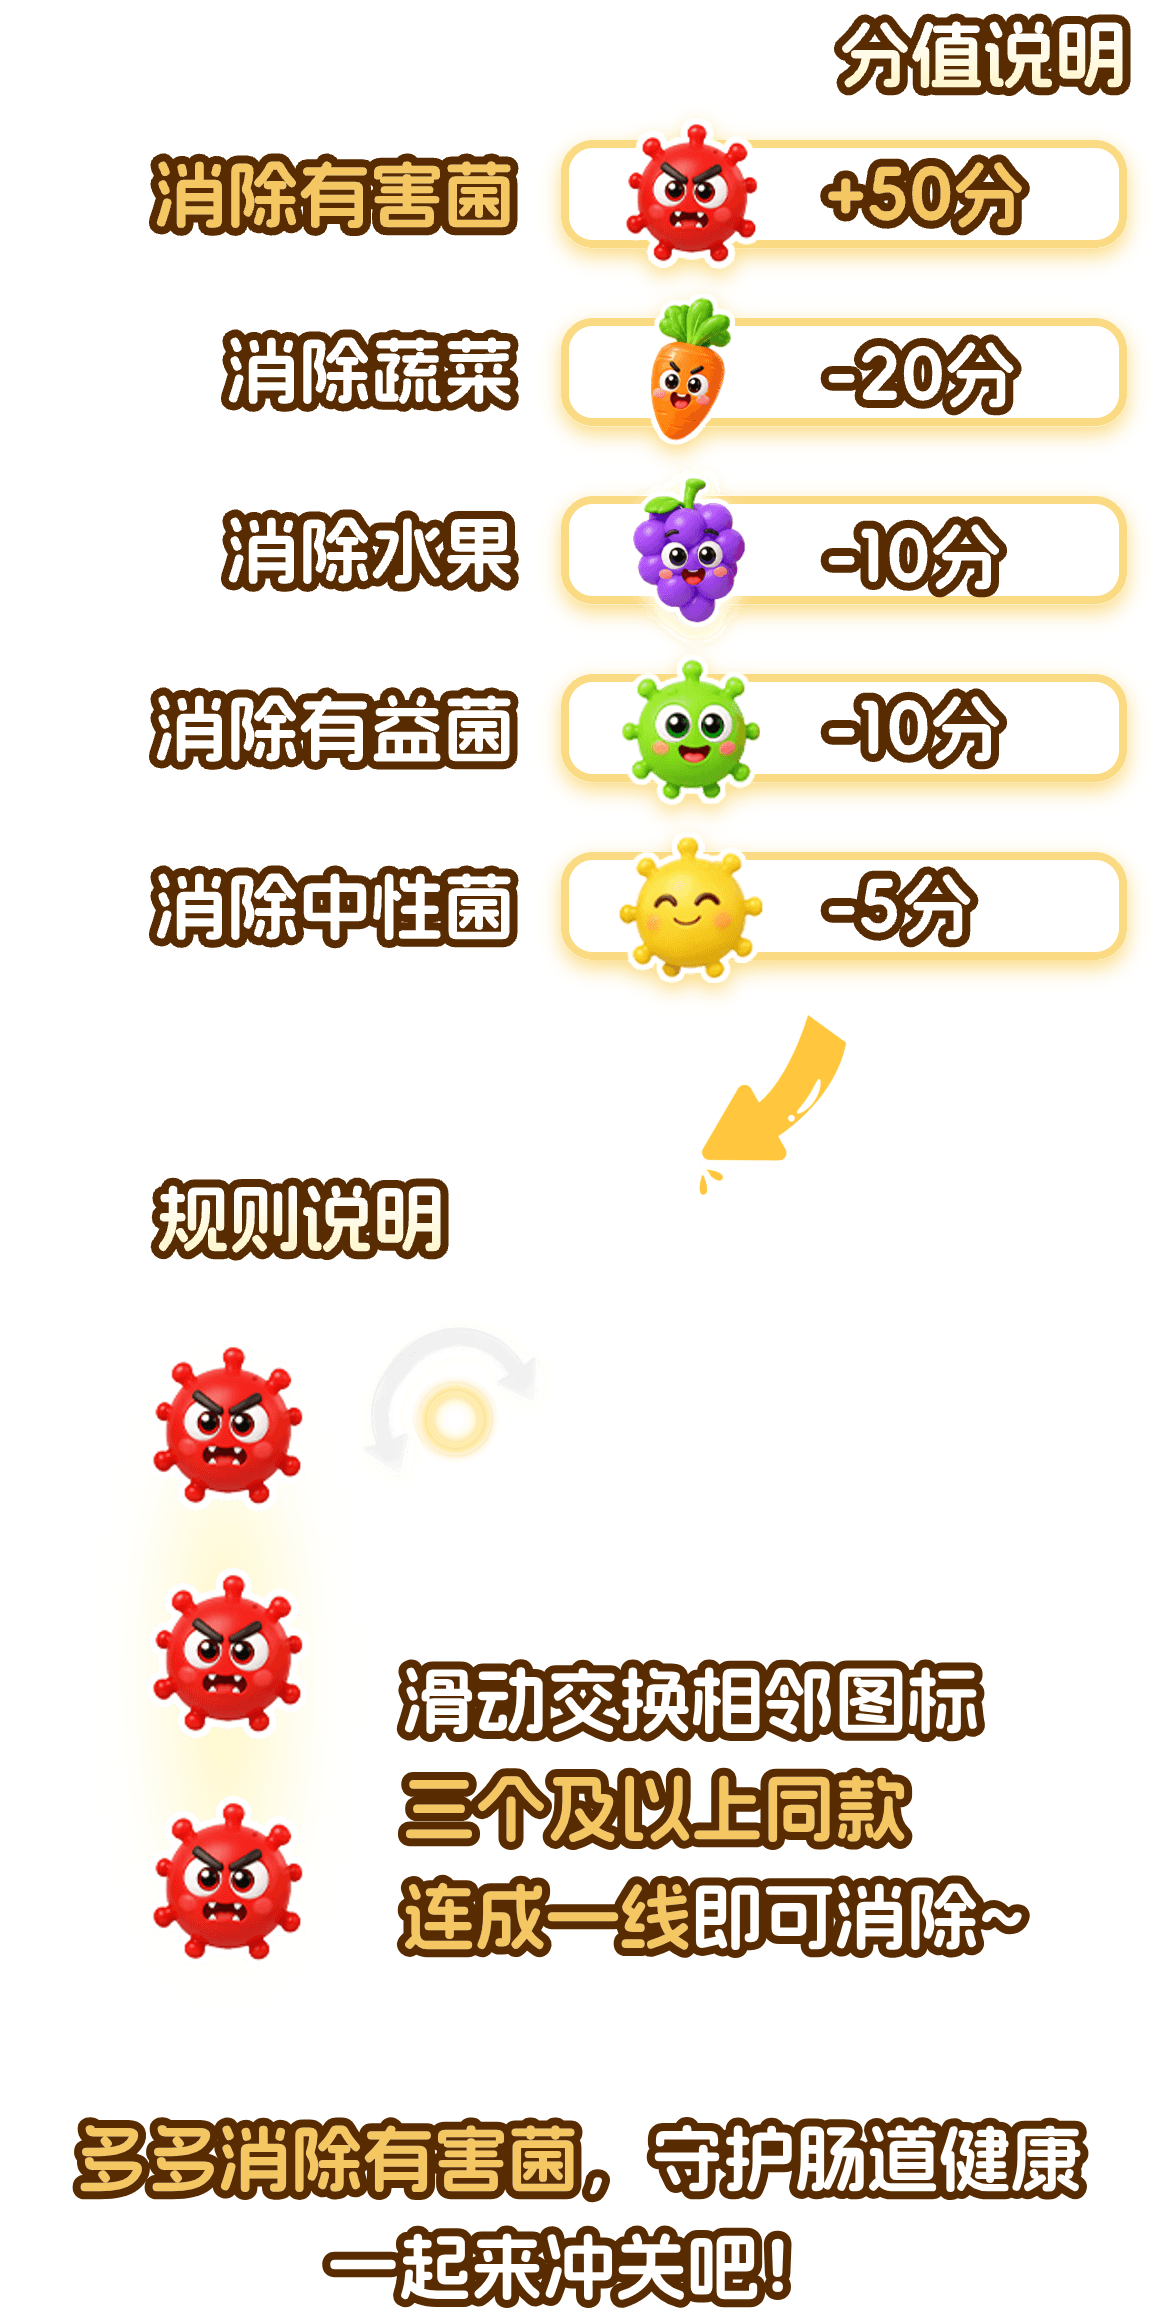
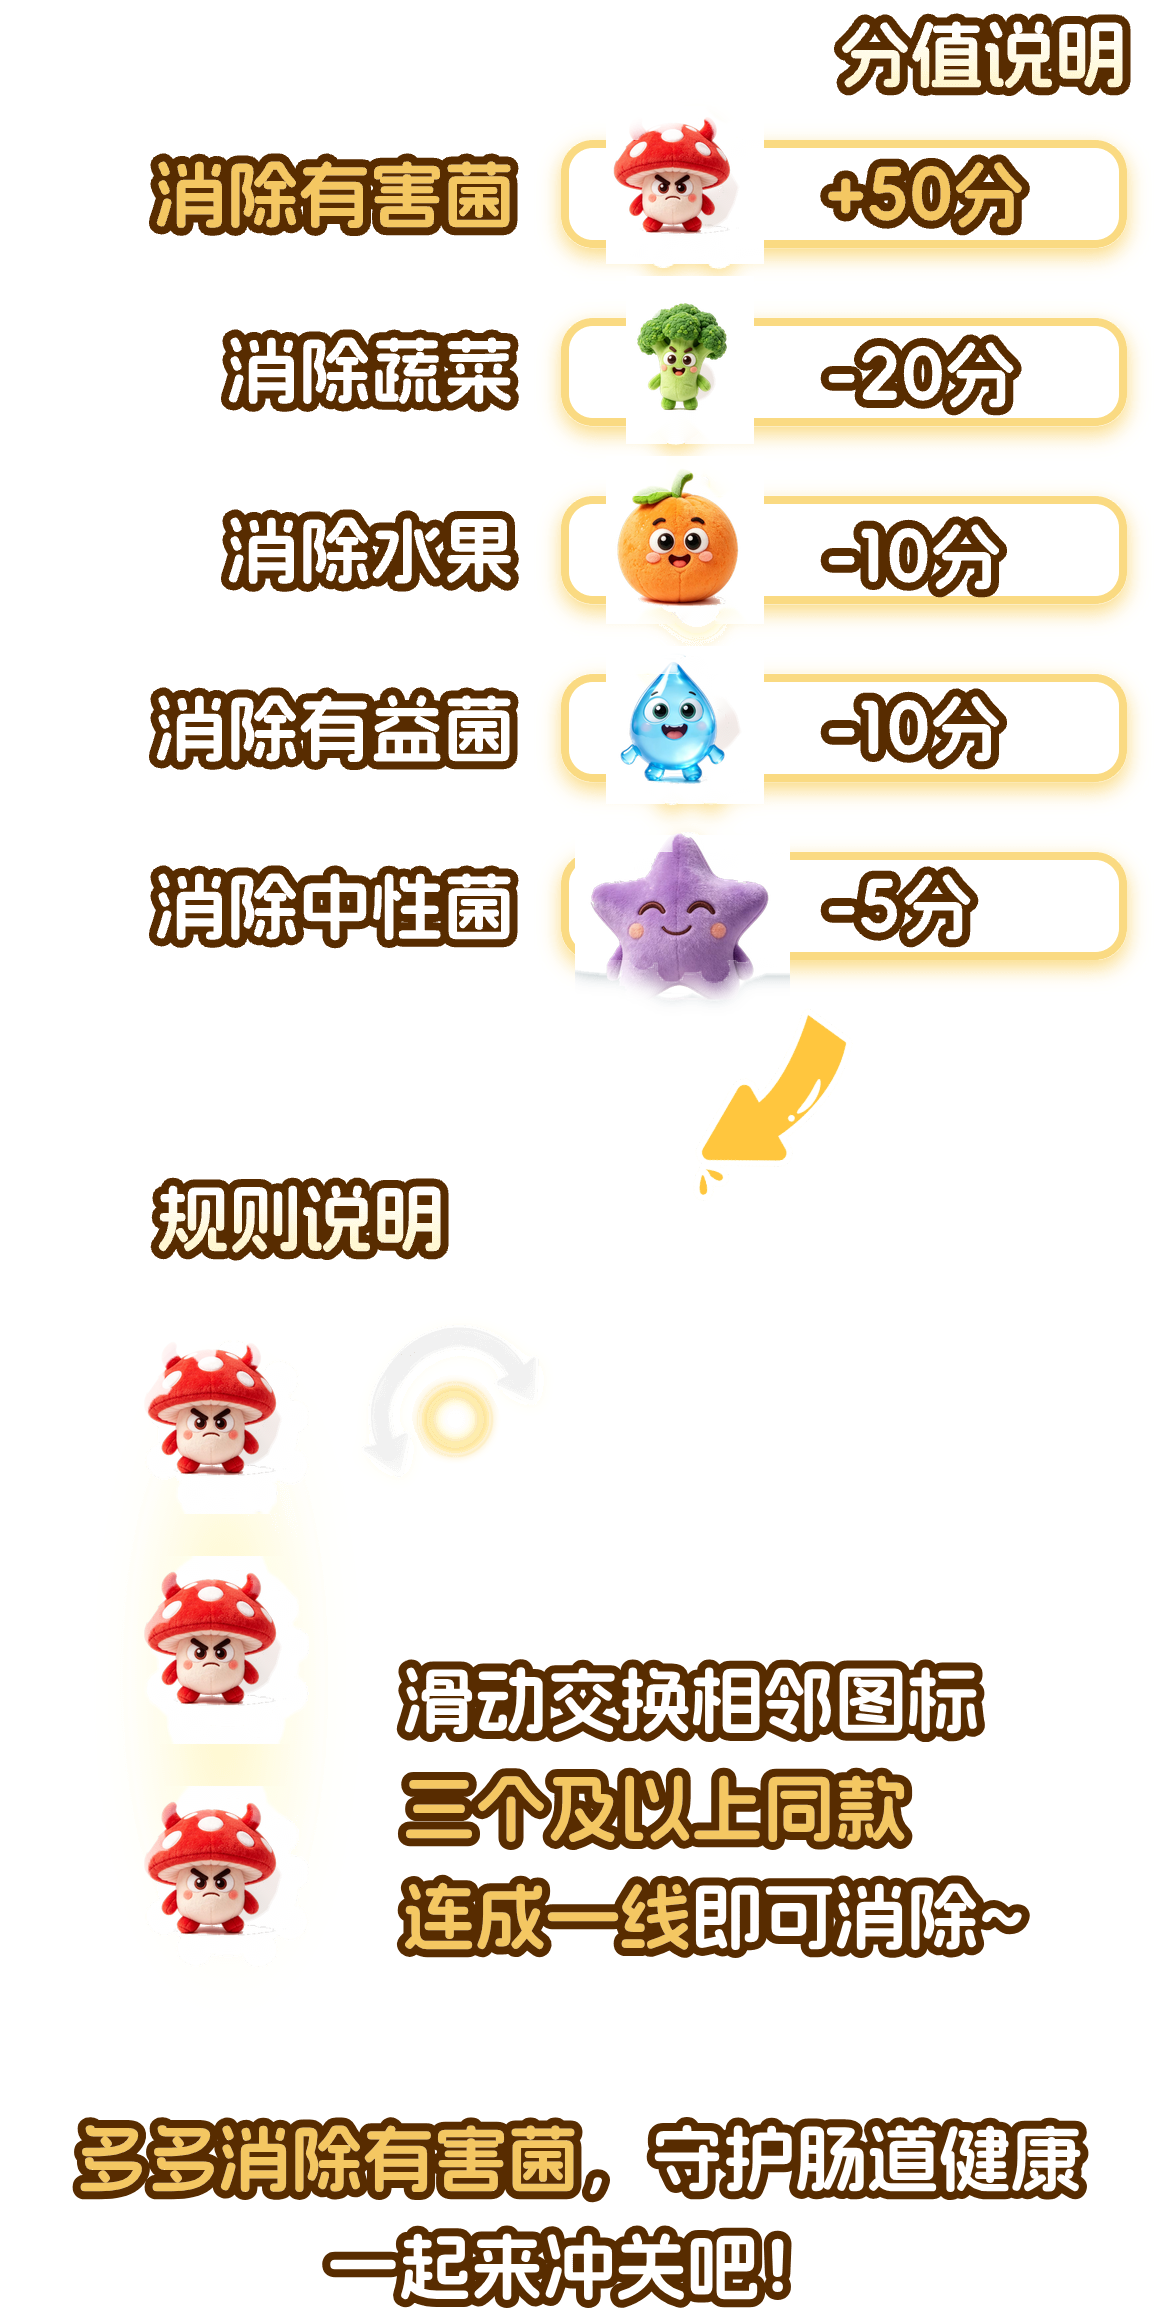
Replace the five match-3 pieces with the new characters.

Changed region(s): [[0.4978, 0.031, 0.6845, 0.4345], [0.1245, 0.5586, 0.28, 0.869]]

diff --git a/index.html b/index.html
@@ -7,7 +7,7 @@
   <meta http-equiv="Expires" content="0" />
   <meta name="viewport" content="width=device-width, user-scalable=no, initial-scale=1, maximum-scale=1, viewport-fit=cover" />
   <title>大家消消乐 肠享好时光</title>
-  <link rel="stylesheet" href="css/game.css?v=8" />
+  <link rel="stylesheet" href="css/game.css?v=9" />
 </head>
 <body>
   <div class="phone" id="phone">
@@ -59,8 +59,8 @@
     <img class="logo" src="image/logo.png" alt="北大方正人寿江苏分公司" />
     <div id="result-title" class="result-title win"></div>
     <div class="score-card">
-      <div class="score-line"><img src="assets/static/image/bad.e7701dce.png" alt="" /><span>成功消除有害菌</span><b id="result-bad">0个</b></div>
-      <div class="score-line"><img src="assets/static/image/good2.0b5e797e.png" alt="" /><span>成功守护有益菌</span><b id="result-good">0个</b></div>
+      <div class="score-line"><img src="assets/static/image/bad.e7701dce.png?v=9" alt="" /><span>成功消除有害菌</span><b id="result-bad">0个</b></div>
+      <div class="score-line"><img src="assets/static/image/good2.0b5e797e.png?v=9" alt="" /><span>成功守护有益菌</span><b id="result-good">0个</b></div>
       <div class="score-line"><span>得分</span><b id="result-score">0</b></div>
       <div id="result-rank-block" class="rank-card">
         <img id="result-rank-img" class="badge" alt="" />
@@ -83,7 +83,7 @@
 
   <section id="howto" class="overlay howto" hidden>
     <div class="howto-card">
-      <img class="rules" src="assets/static/image/game_rules.b7cd129a.png" alt="游戏规则" />
+      <img class="rules" src="assets/static/image/game_rules.b7cd129a.png?v=9" alt="游戏规则" />
       <img class="finger" src="assets/static/image/finger.2957c077.png" alt="" />
     </div>
     <button type="button" data-action="howto-go"><img class="howto-go" src="assets/static/image/start.766e35a5.png" alt="开始" /></button>
@@ -122,7 +122,7 @@
 
   <div id="toast" class="toast" hidden></div>
   </div>
-  <script src="js/engine.js?v=8"></script>
-  <script src="js/app.js?v=8"></script>
+  <script src="js/engine.js?v=9"></script>
+  <script src="js/app.js?v=9"></script>
 </body>
 </html>

diff --git a/js/app.js b/js/app.js
@@ -3,11 +3,11 @@ const MEDIA = "assets/static/media/";
 const LOGO = "image/logo.png";
 
 const TILES = {
-  1: IMG + "bad.e7701dce.png",
-  2: IMG + "good1.bec550f3.png",
-  3: IMG + "good2.0b5e797e.png",
-  4: IMG + "grape.ec727821.png",
-  5: IMG + "carrot.85a5d31e.png",
+  1: IMG + "bad.e7701dce.png?v=9",
+  2: IMG + "good1.bec550f3.png?v=9",
+  3: IMG + "good2.0b5e797e.png?v=9",
+  4: IMG + "grape.ec727821.png?v=9",
+  5: IMG + "carrot.85a5d31e.png?v=9",
 };
 
 const ROUND_TITLE = [
@@ -224,7 +224,7 @@ function renderRank() {
 
 function renderModal() {
   const map = {
-    rules: { title: IMG + "tab_rules.2280077b.png", body: IMG + "rules.d30d95b1.png?v=4", frame: IMG + "bg_modal2.f6c41725.png" },
+    rules: { title: IMG + "tab_rules.2280077b.png", body: IMG + "rules.d30d95b1.png?v=9", frame: IMG + "bg_modal2.f6c41725.png" },
     prize: { title: IMG + "tab_prize.50b50917.png", body: IMG + "tab_prize.50b50917.png", frame: IMG + "bg_modal1.90a830b4.png" },
     protocol: { title: IMG + "title_rules.d6d6c7d2.png", body: IMG + "protocol.e3577188.png", frame: IMG + "bg_modal3.3d7bc8c7.png" },
   };

diff --git a/make_poster.py b/make_poster.py
@@ -5,7 +5,7 @@ import qrcode
 from PIL import Image, ImageDraw, ImageFont
 
 ROOT = os.path.dirname(os.path.abspath(__file__))
-PLAY_URL = os.environ.get("PLAY_URL", "https://hua691.github.io/gut-match3-play/?v=8")
+PLAY_URL = os.environ.get("PLAY_URL", "https://hua691.github.io/gut-match3-play/?v=9")
 OUT = os.path.join(ROOT, "海报.png")
 
 W, H = 1080, 2160
